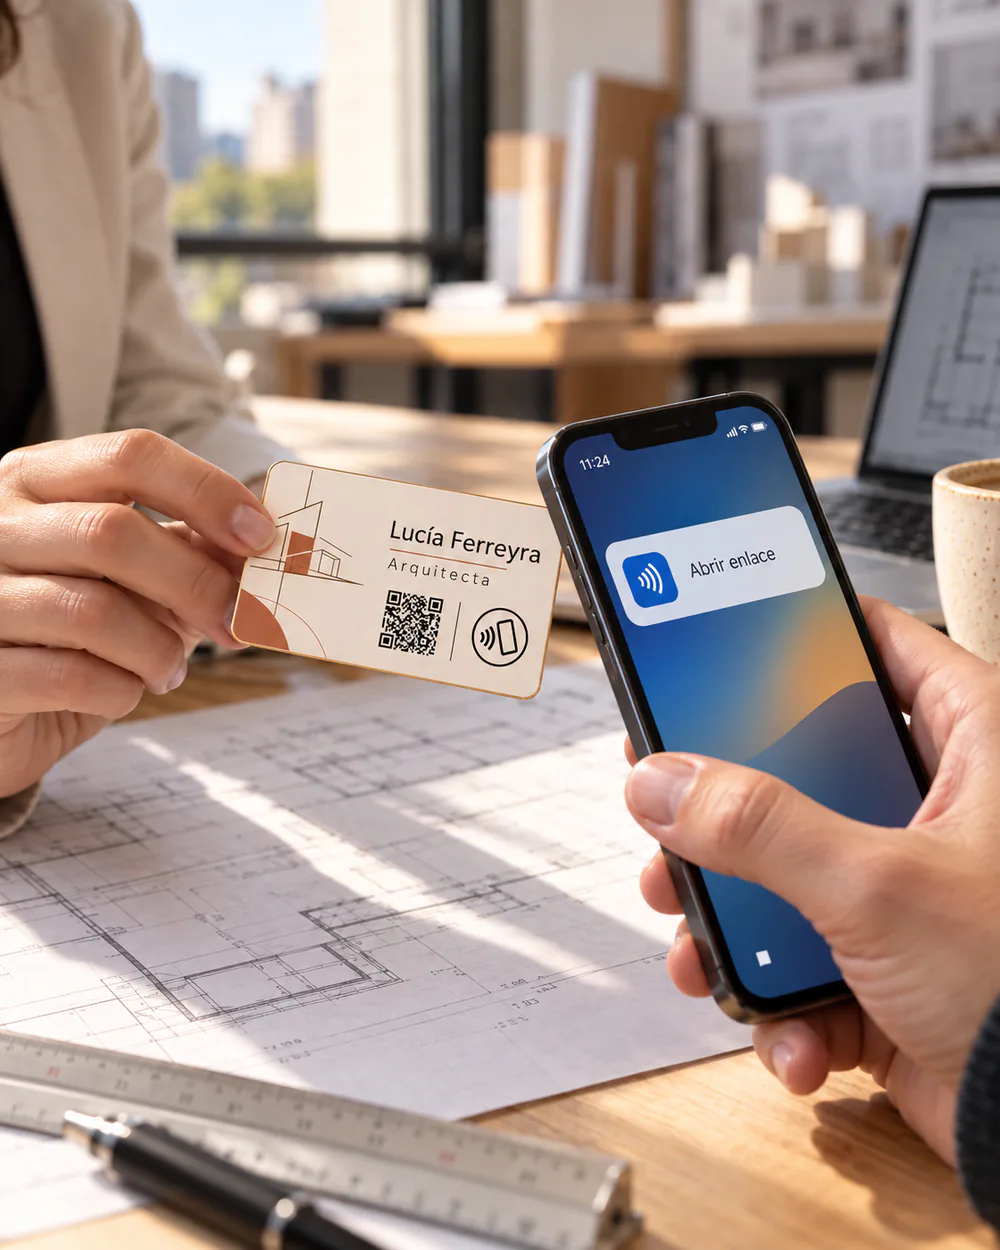
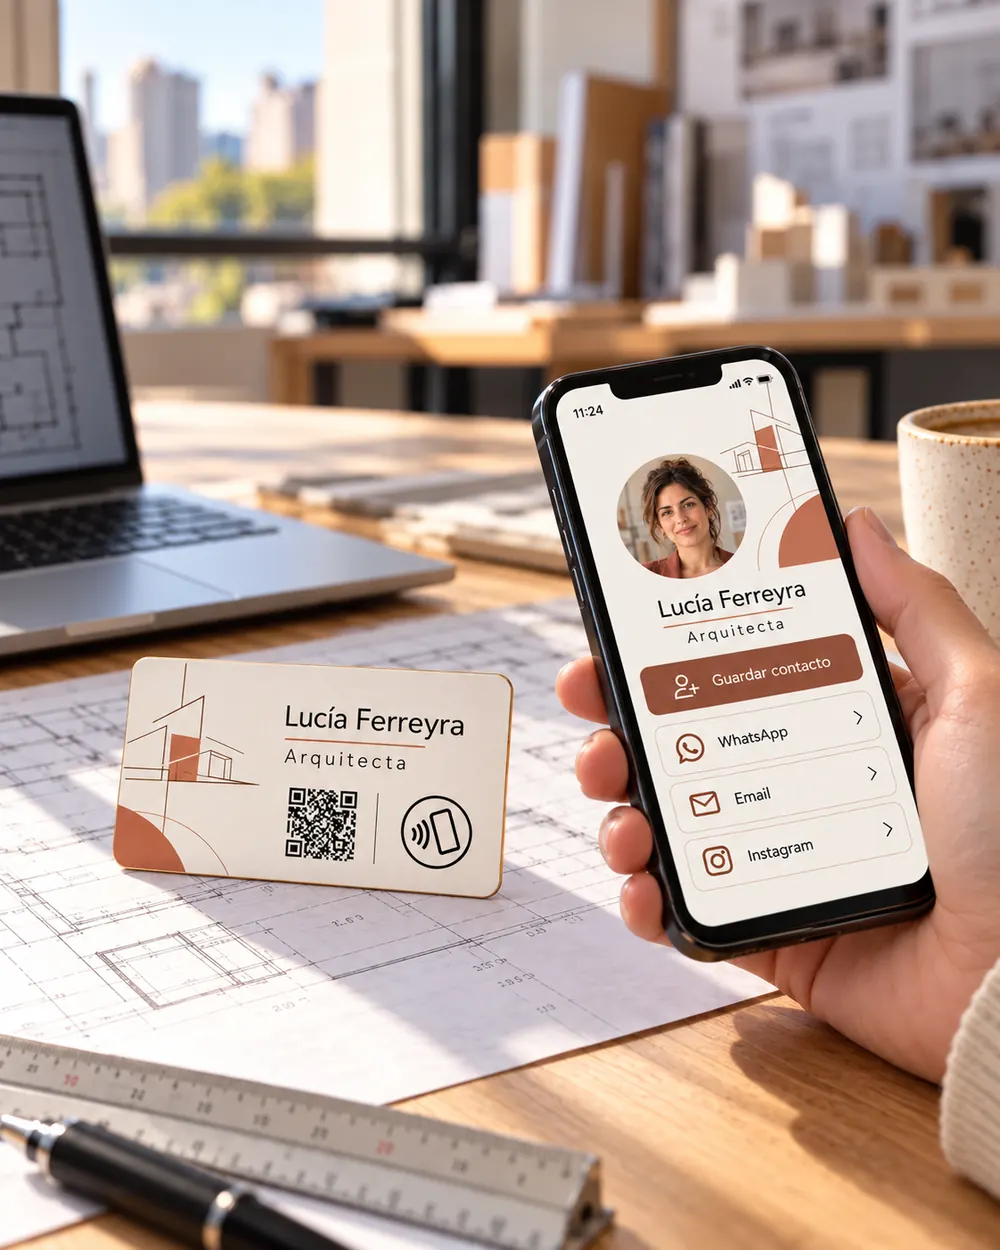
Home: expand NFC how-it-works examples

diff --git a/app/_home/how-it-works.tsx b/app/_home/how-it-works.tsx
@@ -16,16 +16,19 @@ const OPTIONS = [
   { icon: FaInstagram, label: "Instagram" },
 ];
 
-// La misma escena con distintos objetos y, en la pantalla, lo que abre cada uno (página, reseñas,
-// tarjeta personal), alternándose con un fundido suave: se ven varios usos sin agrandar la sección.
+// Cada escena muestra un objeto NFC y lo que abre en el celular: página, reseñas, WhatsApp,
+// tarjeta personal o credencial. Se alternan con un fundido sin agrandar la sección.
 const PHOTOS = [
-  { image: "/marketing/how-it-works/acercar-cafe.webp", label: "Tu página · Cafetería", alt: "Una clienta acerca su celular al mostrador NFC de Café Nube; en la pantalla se ve la página de Café Nube con opciones de menú, reserva y ubicación", position: "60% 55%" },
-  { image: "/marketing/how-it-works/acercar-resenas.webp", label: "Reseñas · Barbería", alt: "Un cliente acerca su celular al mostrador NFC de Norte Barber; en la pantalla se ve el formulario de Google para calificar con cinco estrellas y escribir una reseña", position: "55% 55%" },
-  { image: "/marketing/how-it-works/acercar-tarjeta.webp", label: "Tarjeta personal · Arquitecta", alt: "Una persona acerca su celular a la tarjeta NFC de Lucía Ferreyra; en la pantalla se ve su tarjeta digital con opciones para guardar el contacto, WhatsApp, Email e Instagram", position: "45% 50%" },
+  { image: "/marketing/how-it-works/acercar-cafe.webp", label: "Tu página · Cafetería", alt: "Una clienta acerca su celular al mostrador NFC de Café Nube; en la pantalla se ve la página de Café Nube con opciones de menú, reserva y ubicación", position: "62% 62%" },
+  { image: "/marketing/how-it-works/acercar-resenas.webp", label: "Reseñas · Barbería", alt: "Un cliente acerca su celular al mostrador NFC de Norte Barber; en la pantalla se ve el formulario de Google para calificar con cinco estrellas y escribir una reseña", position: "62% 60%" },
+  { image: "/marketing/how-it-works/acercar-whatsapp-tatuajes.webp", label: "WhatsApp · Tatuajes", alt: "Una persona acerca su celular al mostrador NFC de un estudio de tatuajes; se abre WhatsApp con el mensaje para reservar un turno ya escrito y el teclado visible", position: "55% 58%" },
+  { image: "/marketing/how-it-works/profesional-2-acercar-v2.webp", label: "Tarjeta personal · Arquitecta", alt: "Una mano acerca el celular a la tarjeta personal NFC de Lucía Ferreyra apoyada sobre planos de arquitectura; en la pantalla se ve su tarjeta digital con Guardar contacto, WhatsApp, Email e Instagram", position: "62% 55%" },
+  { image: "/marketing/how-it-works/credencial-mineria.webp", label: "Credencial · Feria minera", alt: "En una feria, una persona acerca su celular a la credencial NFC de Valentina Ríos, geóloga; en la pantalla se ve su tarjeta digital con Guardar contacto, WhatsApp, Email y LinkedIn", position: "58% 62%" },
+  { image: "/marketing/how-it-works/credencial-concesionaria.webp", label: "Credencial · Concesionaria", alt: "En una concesionaria, un cliente acerca su celular a la credencial NFC de Martín Rivas, asesor comercial; en la pantalla se ve su tarjeta digital con Guardar contacto, WhatsApp, Email e Instagram", position: "58% 62%" },
 ];
 
 // Cada foto se ve 3,5 s y se funde con la siguiente. La animación se arma según cuántas fotos haya,
-// así sumar una (WhatsApp, hotel…) es solo agregarla a PHOTOS.
+// así sumar otro ejemplo es solo agregarlo a PHOTOS.
 const SLIDE_SECONDS = 3.5;
 function fadeKeyframes(count: number) {
   const share = 100 / count;

diff --git a/app/_home/how-it-works.css b/app/_home/how-it-works.css
@@ -55,7 +55,8 @@
   .bx-journey-body { display:contents; }
   .bx-journey-eyebrow { order:0; justify-self:center; }
   .bx-journey-body h2 { order:1; margin-top:-10px; font-size:clamp(30px,8.4vw,38px); text-align:center; }
-  .bx-journey-photo { order:2; aspect-ratio:4/3.1; border-radius:22px; }
+  /* Cuadrada: las fotos son verticales y en un cuadro apaisado se cortaba el celular de la foto. */
+  .bx-journey-photo { order:2; aspect-ratio:1/1; border-radius:22px; }
   .bx-journey-photo figcaption { left:12px; bottom:12px; padding:8px 12px; font-size:12px; }
   .bx-journey-steps { order:3; gap:14px; margin-top:0; }
   .bx-journey-steps::before { left:15px; }
